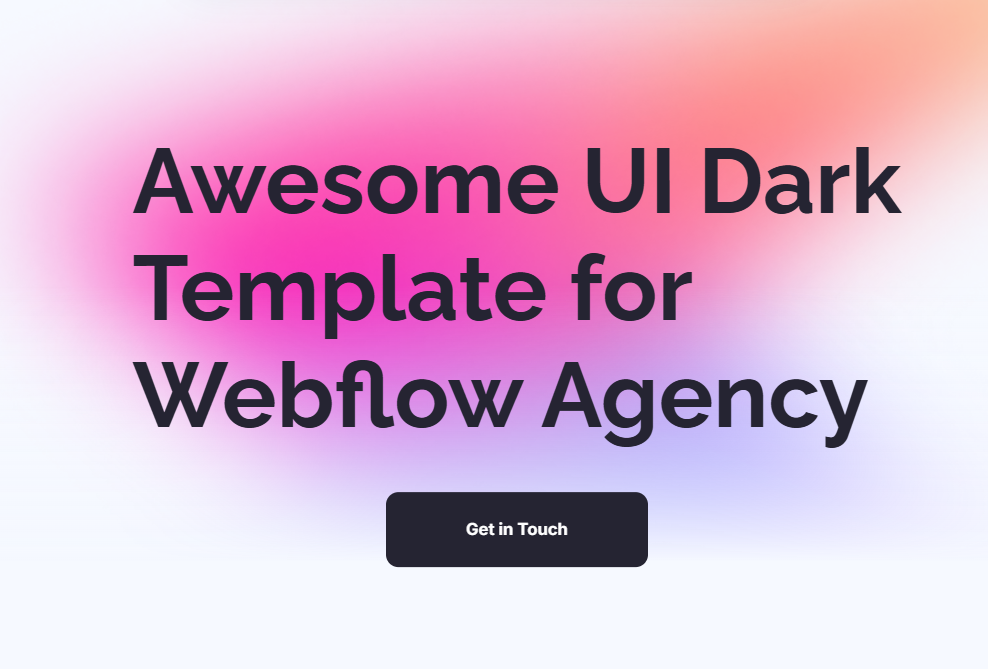
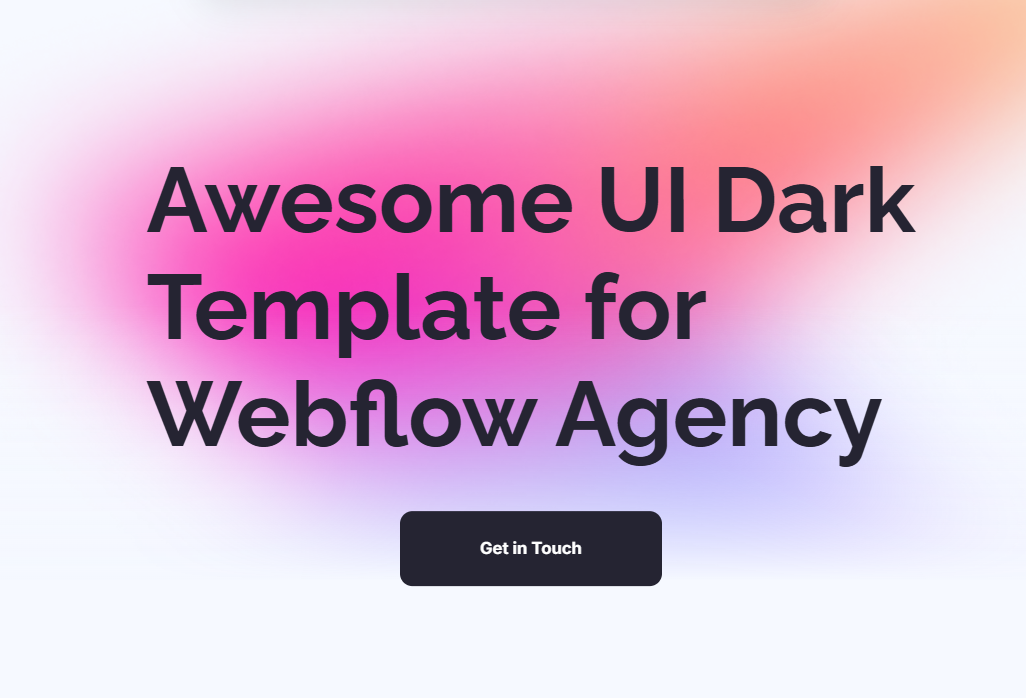
update my infos

diff --git a/v14.2/index.html b/v14.2/index.html
@@ -107,6 +107,7 @@
                             <span>HTML</span>
                             <span>CSS</span>
                             <span>JavaScript</span>
+                            <span>Responsive</span>
                         </div>
                     </div>
                 </div>
@@ -117,19 +118,19 @@
                 <div class="card-content">
                     <div class="card-image-wrapper">
                         <div class="card-image"
-                            style="background-image: url('https://placehold.co/600x400/222/FFF?text=Design+System');">
+                            style="background-image: url('./projects-img/faster-ui.png');">
                         </div>
                         <div class="project-overlay">
-                            <a href="#" class="btn-project"><i class="fas fa-external-link-alt"></i> Ver Projeto</a>
-                            <a href="#" class="btn-github"><i class="fab fa-github"></i> GitHub</a>
+                            <a href="https://maiconfpss.github.io/exercicios/faster-ui/" target="_blank" class="btn-project"><i class="fas fa-external-link-alt"></i> Ver Projeto</a>
+                            <a href="https://github.com/maiconfpss/exercicios/tree/main/faster-ui" target="_blank" class="btn-github"><i class="fab fa-github"></i> GitHub</a>
                         </div>
                     </div>
                     <div class="card-info">
-                        <h3>Design System</h3>
-                        <p>Biblioteca de componentes reutilizáveis e acessíveis.</p>
+                        <h3>Projeto Faster UI</h3>
+                        <p>Projeto qualquer feito do figma.</p>
                         <div class="tech-tags">
-                            <span>React</span>
-                            <span>Styled Components</span>
+                            <span>HTML</span>
+                            <span>CSS</span>
                         </div>
                     </div>
                 </div>
@@ -140,20 +141,20 @@
                 <div class="card-content">
                     <div class="card-image-wrapper">
                         <div class="card-image"
-                            style="background-image: url('https://placehold.co/600x400/333/FFF?text=E-commerce');">
+                            style="background-image: url('./projects-img/techstart.png');">
                         </div>
                         <div class="project-overlay">
-                            <a href="#" class="btn-project"><i class="fas fa-external-link-alt"></i> Ver Projeto</a>
-                            <a href="#" class="btn-github"><i class="fab fa-github"></i> GitHub</a>
+                            <a href="https://maiconfpss.github.io/exercicios/techstart/" target="_blank" class="btn-project"><i class="fas fa-external-link-alt"></i> Ver Projeto</a>
+                            <a href="https://github.com/maiconfpss/exercicios/tree/main/techstart" target="_blank" class="btn-github"><i class="fab fa-github"></i> GitHub</a>
                         </div>
                     </div>
                     <div class="card-info">
-                        <h3>E-commerce</h3>
-                        <p>Loja virtual completa com carrinho e checkout.</p>
+                        <h3>Tech Start</h3>
+                        <p>Projecto pededio pro <a href="https://claude.ai/" target="_blank">Claude AI</a>.</p>
                         <div class="tech-tags">
-                            <span>Next.js</span>
-                            <span>Stripe</span>
-                            <span>Tailwind</span>
+                            <span>HTML</span>
+                            <span>CSS</span>
+                            <span>Responsive</span>
                         </div>
                     </div>
                 </div>
@@ -164,7 +165,7 @@
                 <div class="card-content">
                     <div class="card-image-wrapper">
                         <div class="card-image"
-                            style="background-image: url('https://placehold.co/600x400/444/FFF?text=Dashboard+AI');">
+                            style="background-image: url('https://placehold.co/600x400/444/FFF?text=Project+Future');">
                         </div>
                         <div class="project-overlay">
                             <a href="#" class="btn-project"><i class="fas fa-external-link-alt"></i> Ver Projeto</a>
@@ -172,12 +173,12 @@
                         </div>
                     </div>
                     <div class="card-info">
-                        <h3>Dashboard AI</h3>
-                        <p>Painel de controle com análise preditiva de dados.</p>
+                        <h3>Projeto Future</h3>
+                        <p>Aqui apenas pra completar o grid.</p>
                         <div class="tech-tags">
-                            <span>Python</span>
-                            <span>TensorFlow</span>
-                            <span>Vue.js</span>
+                            <span>Ola 👋🏼</span>
+                            <span>Tudo Bem?</span>
+                            <span>👋🏼</span>
                         </div>
                     </div>
                 </div>
@@ -228,13 +229,13 @@
                 </div>
                 <div class="skill-card">
                     <i class="fab fa-css3-alt skill-icon"></i>
-                    <span>CSS3 / SASS</span>
+                    <span>CSS3</span>
                 </div>
                 <div class="skill-card">
                     <i class="fab fa-js skill-icon"></i>
-                    <span>JavaScript</span>
+                    <span>JavaScript Proximo</span>
                 </div>
-                <div class="skill-card">
+                <!-- <div class="skill-card">
                     <i class="fab fa-react skill-icon"></i>
                     <span>React.js</span>
                 </div>
@@ -245,7 +246,7 @@
                 <div class="skill-card">
                     <i class="fas fa-mobile-alt skill-icon"></i>
                     <span>Responsive</span>
-                </div>
+                </div> -->
             </div>
         </div>
     </section>
@@ -254,39 +255,45 @@
     <section id="contato" class="content-section footer-section">
         <div class="container">
             <h2 class="section-title reveal">Contato</h2>
-            <p class="reveal" style="margin-bottom: 40px; color: #ccc;">Sinta-se à vontade para entrar em contato para
+            <!-- <p class="reveal" style="margin-bottom: 40px; color: #ccc;">Sinta-se à vontade para entrar em contato para
                 parcerias ou
-                apenas dar um oi!</p>
-
+                apenas dar um oi!</p> -->
+                <div class="contact-card">
+                    <i class="fab fa-instagram"></i>
+                    <h3>Instagram</h3>
+                    <p>@maiconfpss</p>
+                    <a href="https://instagram.com/maiconfpss">Seguir ou Enviar Mensagem</a>
+                </div>
             <div class="contact-grid reveal">
                 <div class="contact-card">
                     <i class="fas fa-envelope"></i>
                     <h3>Email</h3>
-                    <p>contato@exemplo.com</p>
-                    <a href="mailto:contato@exemplo.com">Enviar Mensagem</a>
+                    <p>contato-maiconfpss@gmail.com</p>
+                    <a href="mailto:maiconfpss@gmail.com">Enviar Mensagem</a>
                 </div>
-                <div class="contact-card">
+               <!--  <div class="contact-card">
                     <i class="fab fa-linkedin"></i>
                     <h3>LinkedIn</h3>
                     <p>@maiconfpss</p>
                     <a href="#">Conectar</a>
-                </div>
+                </div> -->
+                
                 <div class="contact-card">
                     <i class="fab fa-github"></i>
                     <h3>GitHub</h3>
                     <p>@maiconfpss</p>
-                    <a href="#">Seguir</a>
+                    <a href="https://github.com/maiconfpss">Seguir</a>
                 </div>
                 <div class="contact-card">
                     <i class="fas fa-map-marker-alt"></i>
                     <h3>Localização</h3>
-                    <p>São Paulo, Brasil</p>
-                    <a href="#">Ver no Mapa</a>
+                    <p>Mulungu do Morro - Bahia, Brasil</p>
+                    <a href="https://maps.app.goo.gl/eTwHoLjuSpz2anaW6" target="_blank">Ver no Mapa</a>
                 </div>
             </div>
 
             <footer class="footer-copy">
-                &copy; 2026 Maicon. Todos os direitos reservados.
+                &copy; 2k26 maiconfpss. Todos os direitos reservados.
             </footer>
         </div>
     </section>
